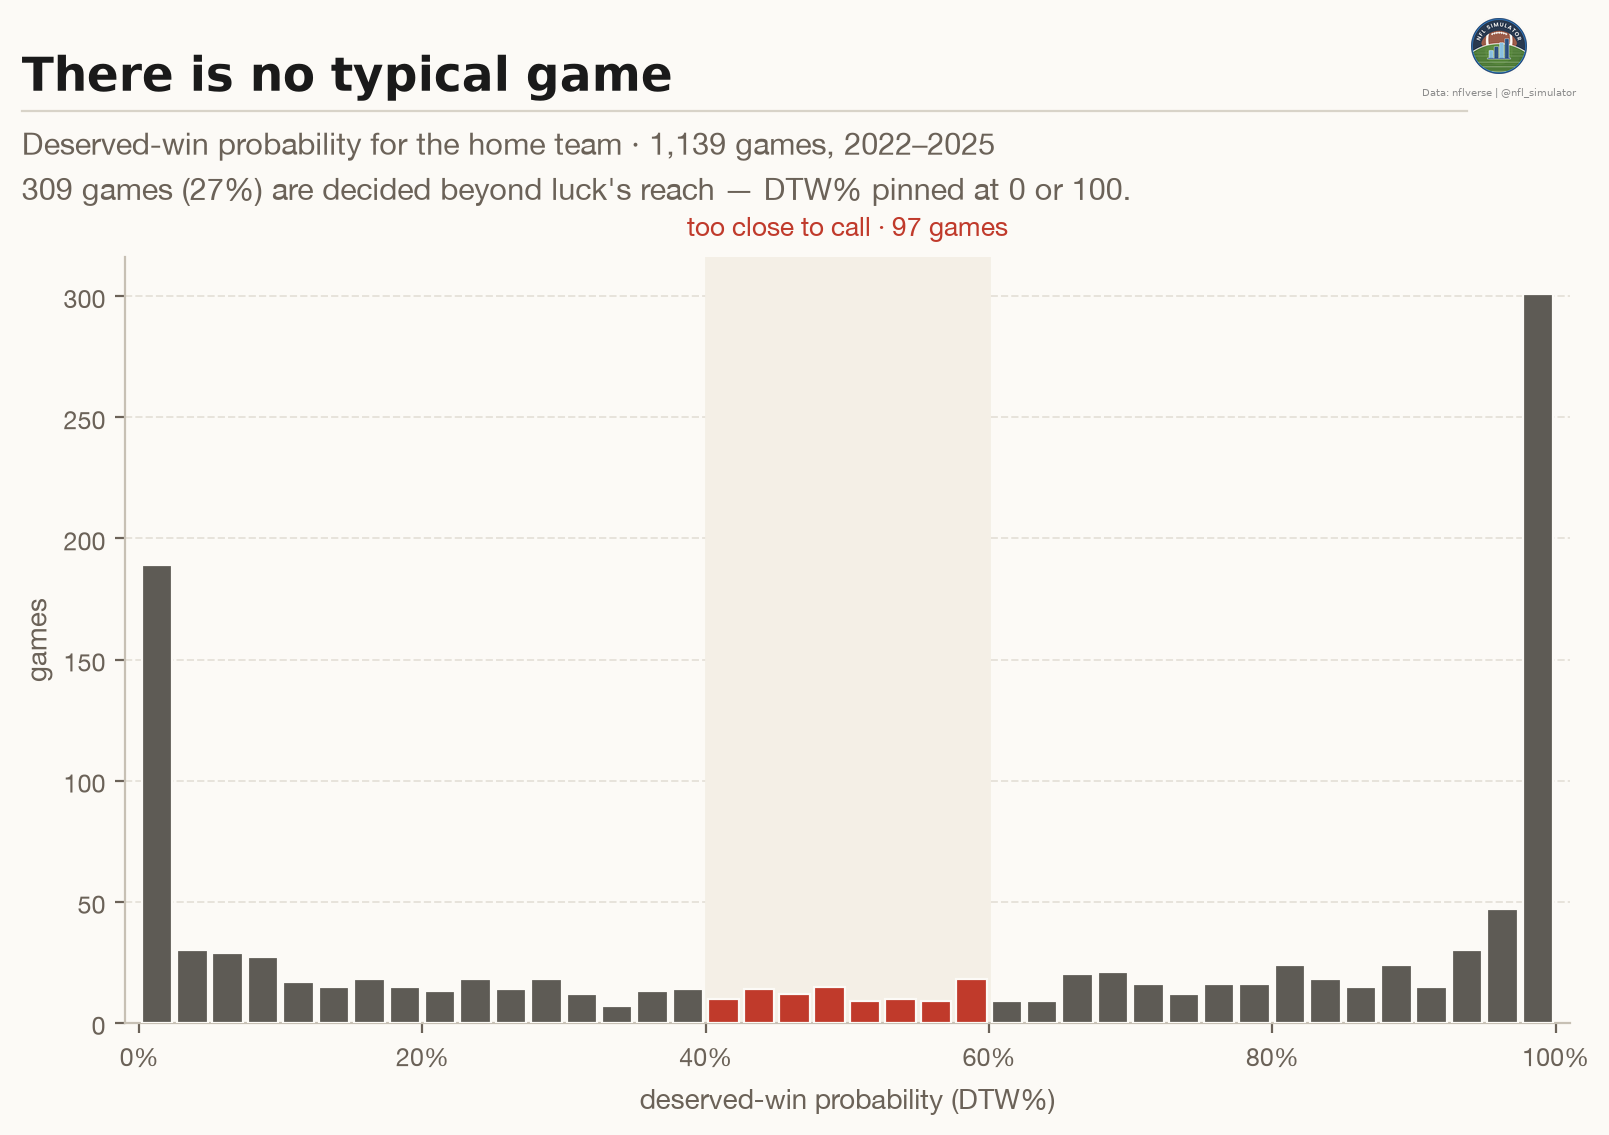
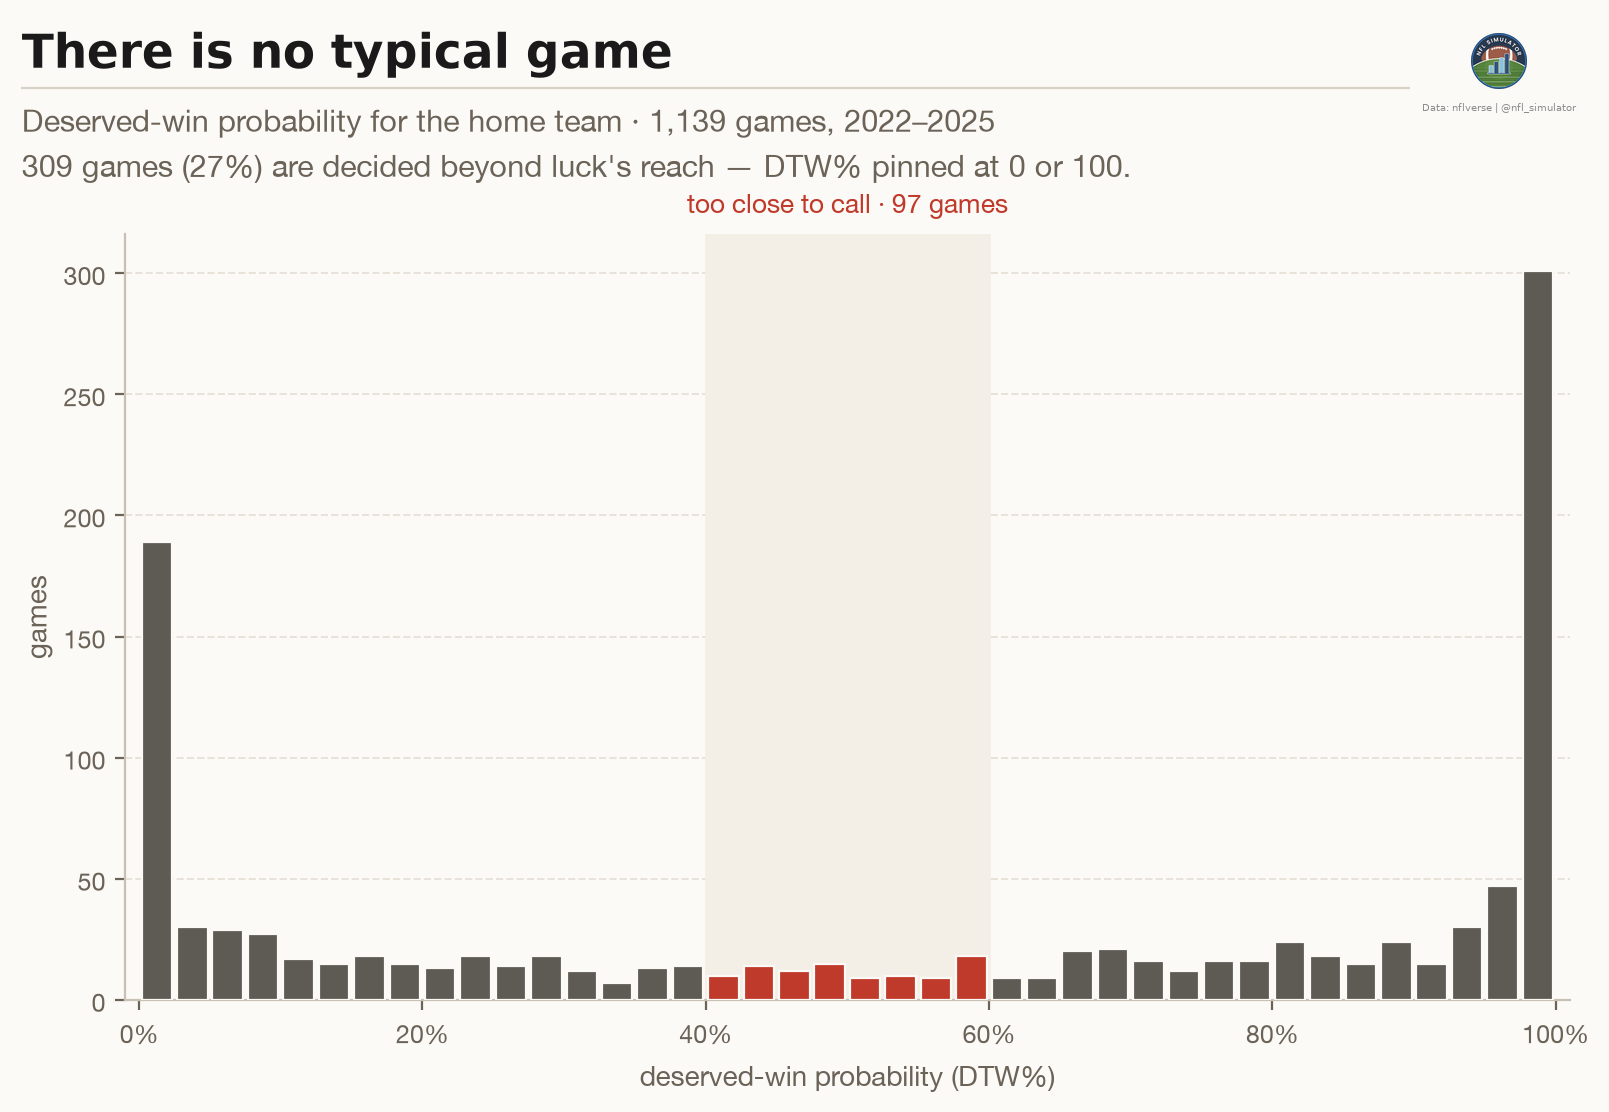
docs(writeup): round 6 — Broncos orange, Denver 2025 follow-up, defense PyMC block, retitles, aligned titles and stamp

diff --git a/research/80_writeup_figures.py b/research/80_writeup_figures.py
@@ -133,6 +133,8 @@ ARTICLE_DTW = ("05_den_was_2025_wk13_dtw_full", "2025_13_DEN_WAS", "full")
 # land on a number a numbered document already published. These are those
 # numbers, with their document, and `check` raises rather than warns.
 DOC_CHECKS = {
+    "den_2025_worthy": (21, 0.001),
+    "den_2025_caught": (8, 0.001),
     # document 02 §1, the pooled recovery-rate split half
     "fumble_rate_split_half_r": (0.051, 0.001),
     # document 02, test 1 — the six split-half correlations
@@ -1174,6 +1176,38 @@ def refused_floors() -> dict:
 SHRINKAGE_ROWS = 5
 
 
+def denver_2025_followup() -> dict:
+    """Denver the year after: the shrunk 55.2% beat the raw 76.5% as a forecast.
+
+    the maintainer 2026-08-31. Raw 2025 rate on interception-worthy throws against the
+    Denver defense, from the same charting join every drop figure uses. The
+    check pins the counts so the article's sentence cannot drift from the data.
+    """
+    import glob
+
+    pbp = pl.read_parquet("data/pbp/pbp_2025.parquet").with_columns(
+        pl.col("play_id").cast(pl.Int32)
+    )
+    ftn = pl.read_parquet(glob.glob("data/ftn/*2025*")[0])
+    joined = pbp.join(
+        ftn,
+        left_on=["game_id", "play_id"],
+        right_on=["nflverse_game_id", "nflverse_play_id"],
+        how="inner",
+    )
+    worthy = joined.filter(pl.col("is_interception_worthy"))
+    denver = worthy.filter(pl.col("defteam") == "DEN")
+    caught = int(denver["interception"].sum())
+    check("den_2025_worthy", denver.height)
+    check("den_2025_caught", caught)
+    return {
+        "worthy": denver.height,
+        "caught": caught,
+        "rate": caught / denver.height,
+        "league": float(worthy["interception"].mean()),
+    }
+
+
 def defence_shrinkage() -> dict:
     """Five defence-seasons' raw dropped-pick rate, and where the model puts it.
 
@@ -1826,7 +1860,7 @@ TRUST_TERMS = [
 ]
 
 TRUST_LABELS = {
-    "weight": "how much to trust\nits own record",
+    "weight": "how much to trust\nits own rate",
     "unit": "what this\nunit did",
     "league": "what the\nleague does",
 }
@@ -1879,6 +1913,23 @@ def formula_plates() -> list[str]:
 # --------------------------------------------------------------------------
 # figure 17 — the six fumble classes the simulator actually prices with
 # --------------------------------------------------------------------------
+
+
+def _align_title_with_ticks(fig, ax) -> None:
+    """Left-align the title block with the y tick labels (the maintainer 2026-08-31).
+
+    `barh` tick labels hang outside the axes, further left than the title
+    block's own margin, and the mismatch reads as a layout accident. Measured
+    after a draw because the labels' width is a font fact, not a layout one.
+    """
+    fig.canvas.draw()
+    labels = ax.get_yticklabels()
+    if not labels:
+        return
+    left = min(label.get_window_extent().x0 for label in labels) / fig.get_window_extent().width
+    title_ax = fig.axes[0]
+    box = title_ax.get_position()
+    title_ax.set_position([left, box.y0, box.x1 - left, box.height])
 
 
 def fumble_retention_bars() -> str:
@@ -1975,6 +2026,7 @@ def fumble_retention_bars() -> str:
         fontsize=8,
         color=PALETTE["text_muted"],
     )
+    _align_title_with_ticks(fig, ax)
     return finalize(fig, FIGURE_DIR / "17_fumble_retention_bars.png").name
 
 
@@ -2215,9 +2267,10 @@ def denver_prior_posterior() -> dict:
     posterior_pct = check("denver_posterior_pct", round(float(with_denver.mean() * 100), 1))
     league_pct = check("denver_league_pct", round(float(league.mean() * 100), 1))
 
-    primary, _secondary = team_colors("DEN", 2024)
+    # the maintainer 2026-08-31: navy reads like the league grey — use the orange.
+    _navy, primary = team_colors("DEN", 2024)
     fig, ax = _prior_posterior_axes(
-        "What 17 throws bought Denver",
+        "Modeling Denver's interception catch rate",
         [
             f"Denver's 2024 defense caught {caught} of the {attempts} throws the charters "
             "called interceptable.",
@@ -2254,7 +2307,7 @@ def denver_prior_posterior() -> dict:
     # Above the curves, for the reason figure 18 gives: the two overlap where
     # this label belongs, and the row below the axis belongs to the x-label.
     ax.annotate(
-        f"the league's hands: {league_pct:.1f}%",
+        f"league interception-worthy catch rate: {league_pct:.1f}%",
         xy=(league_pct, 1.15),
         xytext=(-5, 0),
         textcoords="offset points",
@@ -3166,6 +3219,7 @@ def main() -> None:
     print("  13 epa to points    ", epa_to_points())
     print("  14 refused floors   ", refused_floors())
     print("  15 defense shrinkage", defence_shrinkage())
+    print("  den 2025 follow-up  ", denver_2025_followup())
     print("  16 with and without ", den_was_with_without(computed["walkthrough"]))
     print("  17 fumble retention ", fumble_retention_bars())
     print("  18 kicker curves    ", kicker_prior_posterior())

diff --git a/src/nfl_simulator/style.py b/src/nfl_simulator/style.py
@@ -593,10 +593,11 @@ def stamp_box(
         block_top = int(height * STAMP_INSET)
         text_top = block_top + mark_h + gap
     else:
-        title_top, collision = anchor
-        if collision:
-            # Something besides the rule is in the stamp's columns (a wide
-            # title): stack the block above the title instead of into it.
+        title_top, foreign = anchor
+        block_h = mark_h + gap + text_h + gap
+        if any(title_top - 4 <= r <= title_top + block_h + 4 for r in foreign):
+            # A wide title reaches into the stamp's own rows: stack the block
+            # above the title instead of into it.
             text_top = title_top - gap - text_h
             block_top = text_top - gap - mark_h
         else:
@@ -624,14 +625,13 @@ def _rule_rows(ink) -> np.ndarray:
     return np.nonzero(ink.sum(axis=1) > width * 0.70)[0]
 
 
-def _ink_anchor(image, left: int, width: int, height: int) -> tuple[int, bool] | None:
-    """``(block_top, collision)`` for the stamp, or ``None`` for an empty top.
+def _ink_anchor(image, left: int, width: int, height: int) -> tuple[int, list[int]] | None:
+    """``(title_top, foreign_rows)`` for the stamp, or ``None`` for an empty top.
 
-    the maintainer 2026-08-31 (round 6): the mark's **top** aligns with the title's top
-    — the block sits *in* the title band, and the divider rule is cut where
-    the block crosses it. ``collision`` is True when something other than the
-    rule already inks the stamp's own columns, in which case the caller falls
-    back to stacking the block above the title (round 4's placement).
+    ``foreign_rows`` are the rows in the stamp's own columns holding ink that
+    is not the divider rule; :func:`stamp_box` checks them against the block's
+    candidate rows only, so plot ink lower in the band does not force the
+    fallback.
     """
     ink = _top_ink(image, height)
     top = _title_top(ink)
@@ -640,7 +640,7 @@ def _ink_anchor(image, left: int, width: int, height: int) -> tuple[int, bool] |
     rule = set(_rule_rows(ink).tolist())
     columns = ink[:, max(0, left) :]
     foreign = [r for r in np.nonzero(columns.any(axis=1))[0].tolist() if r not in rule]
-    return top, bool(foreign)
+    return top, foreign
 
 
 def reserve_stamp_strip(
